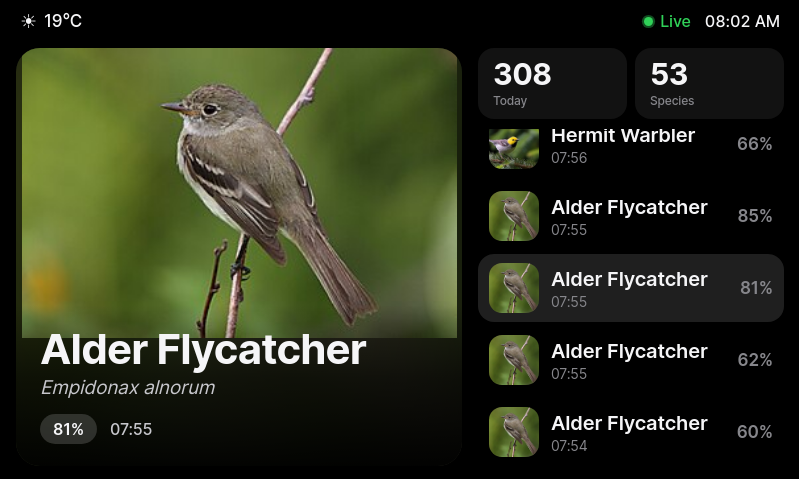
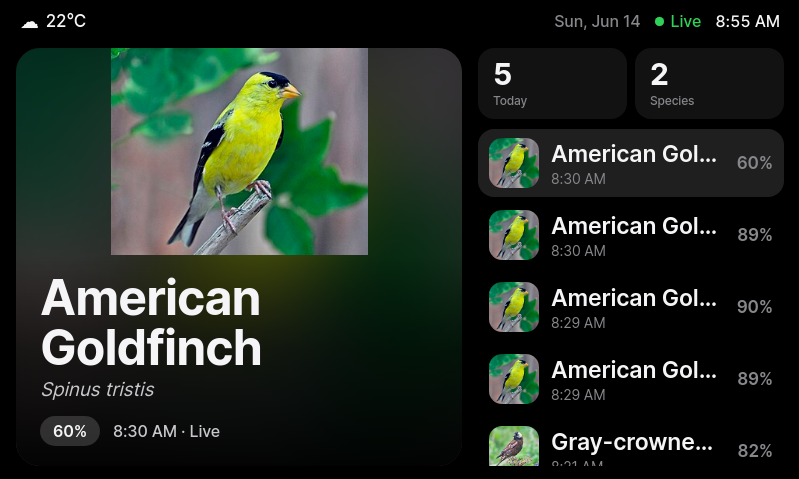
Update UI to current state: 12h clock + date/day, fix name/photo overlap, power menu (long-press m), Pi-driven clock, reboot/poweroff endpoints

diff --git a/dashboard/birdthing-dashboard.html b/dashboard/birdthing-dashboard.html
@@ -36,16 +36,18 @@
     box-shadow:0 0 0 0 rgba(48,209,88,.5);animation:pulse 2s infinite;}
   @keyframes pulse{0%{box-shadow:0 0 0 0 rgba(48,209,88,.45);}70%{box-shadow:0 0 0 11px rgba(48,209,88,0);}100%{box-shadow:0 0 0 0 rgba(48,209,88,0);}}
   #clock{color:var(--fg);font-variant-numeric:tabular-nums;}
+  #date{color:var(--sec);}
   /* HERO */
-  .hero{position:relative;margin:6px 10px 14px 16px;border-radius:24px;overflow:hidden;background:#0c0c0e;}
+  .hero{position:relative;margin:6px 10px 14px 16px;border-radius:24px;overflow:hidden;background:#0c0c0e;
+    display:flex;flex-direction:column;}
   .hero .bg{position:absolute;inset:0;background-size:cover;background-position:center;
     filter:blur(34px) brightness(.4);transform:scale(1.25);}
-  .hero .photo{position:absolute;left:0;right:0;top:0;bottom:128px;background-size:contain;
+  .hero .photo{position:relative;flex:1;min-height:0;background-size:contain;
     background-repeat:no-repeat;background-position:center;transition:opacity .45s ease;}
   .hero .empty{position:absolute;inset:0;display:flex;flex-direction:column;align-items:center;
     justify-content:center;gap:14px;color:var(--sec);}
   .hero .empty .big{font-size:64px;}
-  .hero .meta{position:absolute;left:0;right:0;bottom:0;padding:22px 24px 22px;
+  .hero .meta{position:relative;flex-shrink:0;padding:18px 24px 20px;
     background:linear-gradient(0deg,rgba(0,0,0,.92),rgba(0,0,0,.55) 55%,transparent);}
   .hero .com{font-size:calc(42px*var(--ts));font-weight:700;line-height:1.04;letter-spacing:-.02em;}
   .hero .sci{font-size:19px;font-weight:400;color:#c7c7cc;font-style:italic;margin-top:5px;}
@@ -132,8 +134,9 @@
   #live .rec{display:flex;align-items:center;gap:10px;color:#ff453a;font-size:18px;font-weight:600;}
   #live .recdot{width:14px;height:14px;border-radius:50%;background:#ff453a;animation:pulse2 1.3s infinite;}
   @keyframes pulse2{0%,100%{opacity:1}50%{opacity:.25}}
-  #live .lphoto{width:300px;height:230px;object-fit:contain;border-radius:20px;background:var(--card);}
-  #live .lname{font-size:calc(40px*var(--ts));font-weight:700;letter-spacing:-.02em;}
+  #live .lphoto{width:210px;height:160px;object-fit:contain;border-radius:18px;background:var(--card);}
+  #live .lname{font-size:calc(32px*var(--ts));font-weight:700;letter-spacing:-.02em;line-height:1.05;
+    white-space:normal;text-align:center;padding:0 16px;max-width:96%;}
   #live .lsci{font-size:19px;font-style:italic;color:var(--sec);}
   #live .lconf{font-size:17px;color:var(--sec);margin-top:2px;}
   #live .lwait{font-size:22px;color:var(--sec);}
@@ -151,13 +154,21 @@
   .xax span{flex:1;text-align:center;font-size:11px;color:var(--sec);}
   .about{font-size:17px;color:var(--sec);line-height:1.7;padding:10px 6px;}
   .about b{color:var(--fg);font-weight:600;}
+  /* power menu (long-press m) */
+  .pwr{position:fixed;inset:0;background:rgba(0,0,0,.78);display:none;align-items:center;
+    justify-content:center;z-index:40;backdrop-filter:blur(8px);}
+  .pwr.show{display:flex;}
+  .pwrbox{background:#1c1c1e;border-radius:24px;padding:22px;display:flex;flex-direction:column;gap:11px;width:320px;}
+  .pwrt{font-size:22px;font-weight:700;text-align:center;margin-bottom:4px;}
+  .pwrbtn{font-size:20px;font-weight:600;text-align:center;padding:15px;border-radius:14px;background:var(--card2);}
+  .pwrbtn.alt{color:var(--sec);background:var(--card);}
 </style>
 </head>
 <body>
 <div id="app">
   <div class="top">
     <div class="wx" id="wx" onclick="openWx()"><span id="wxIcon">🌡️</span><span id="wxTemp">--°</span></div>
-    <div class="tr"><div class="live"><div class="dot"></div><span>Live</span></div><div id="clock">--:--</div></div>
+    <div class="tr"><div id="date"></div><div class="live"><div class="dot"></div><span>Live</span></div><div id="clock">--:--</div></div>
   </div>
   <div class="hero" id="hero">
     <div class="bg" id="heroBg"></div>
@@ -206,6 +217,7 @@
   <div class="vhead"><div class="vtitle">Live</div><div class="vclose" onclick="closeView('live')">Back</div></div>
   <div class="lwrap">
     <div class="rec"><div class="recdot"></div><span>Recording &amp; identifying…</span></div>
+    <canvas id="spec" width="720" height="150" style="width:720px;height:150px;border-radius:14px;background:var(--card)"></canvas>
     <img class="lphoto" id="liveImg" alt="">
     <div class="lname" id="liveName">—</div>
     <div class="lsci" id="liveSci"></div>
@@ -229,12 +241,41 @@
     <div class="about" id="about"></div>
   </div>
 </div>
+<div id="power" class="pwr"><div class="pwrbox">
+  <div class="pwrt">Power</div>
+  <div class="pwrbtn" onclick="doReboot()">↻ Restart</div>
+  <div class="pwrbtn" onclick="doPowerOff()">⏻ Power off</div>
+  <div class="pwrbtn alt" onclick="closePower()">Cancel</div>
+</div></div>
 <script>
 const VERSION="1.0 (USB)";
+const CT="http://127.0.0.1:8091";
+// 'm' (5th top button): short press = screen off / wake; long press = power menu.
+let dispOff=false, mTimer=null, mHandled=false;
+function setDisplay(on){dispOff=!on;fetch(CT+"/display?on="+(on?1:0)).catch(()=>{});}
+function powerOpen(){return document.getElementById('power').classList.contains('show');}
+function openPower(){document.getElementById('power').classList.add('show');}
+function closePower(){document.getElementById('power').classList.remove('show');}
+function doReboot(){closePower();fetch(CT+"/reboot").catch(()=>{});}
+function doPowerOff(){closePower();setDisplay(false);}
 const IMG=n=>"/api/image?name="+encodeURIComponent(n);
 let rows=[],sel=0,follow=true,factsOpen=false;
-function tick(){const d=new Date();document.getElementById('clock').textContent=d.toLocaleTimeString([],{hour:'2-digit',minute:'2-digit'});}
+// Clock/date come from the Pi (authoritative NTP time): the Car Thing has no RTC/NTP
+// and a wrong system clock + timezone, so we never trust the browser's local Date.
+const DAYS=['Sun','Mon','Tue','Wed','Thu','Fri','Sat'];
+const MON=['Jan','Feb','Mar','Apr','May','Jun','Jul','Aug','Sep','Oct','Nov','Dec'];
+let srvOffMs=null;            // server-UTC minus local Date.now()
+let tzOffMin=-(new Date().getTimezoneOffset()); // until first server sync
+function setSrvTime(nowMs,tzoff){srvOffMs=nowMs-Date.now();if(typeof tzoff==='number')tzOffMin=tzoff;}
+function tick(){
+  const base=(srvOffMs!=null?Date.now()+srvOffMs:Date.now())+tzOffMin*60000;
+  const d=new Date(base); // shifted so UTC getters read Pi-local wall clock
+  let h=d.getUTCHours();const ap=h<12?'AM':'PM';const hh=(h%12)||12;
+  document.getElementById('clock').textContent=hh+':'+String(d.getUTCMinutes()).padStart(2,'0')+' '+ap;
+  document.getElementById('date').textContent=DAYS[d.getUTCDay()]+', '+MON[d.getUTCMonth()]+' '+d.getUTCDate();}
 setInterval(tick,1000);tick();
+// detection timestamps -> 12-hour to match the top clock
+function fmt12(t){if(!t)return'';const p=t.split(':'),m=p[1]||'00';let h=+p[0];const ap=h<12?'AM':'PM';h=h%12;if(h===0)h=12;return h+':'+m+' '+ap;}
 function renderHero(){
   const m=document.getElementById('heroMeta'),e=document.getElementById('heroEmpty');
   if(!rows.length){m.style.display='none';e.style.display='flex';return;}
@@ -243,7 +284,7 @@ function renderHero(){
   document.getElementById('heroCom').textContent=b.com;
   document.getElementById('heroSci').textContent=b.sci||'';
   document.getElementById('heroConf').textContent=Math.round(b.conf*100)+'%';
-  document.getElementById('heroWhen').textContent=b.time.slice(0,5)+(follow&&sel===0?' · Live':'');
+  document.getElementById('heroWhen').textContent=fmt12(b.time)+(follow&&sel===0?' · Live':'');
   const url=IMG(b.com);
   document.getElementById('heroPhoto').style.backgroundImage=`url('${url}')`;
   document.getElementById('heroBg').style.backgroundImage=`url('${url}')`;
@@ -253,7 +294,7 @@ function renderList(){
   rows.forEach((x,i)=>{
     const it=document.createElement('div');it.className='item'+(i===sel?' sel':'');
     it.innerHTML=`<img class="th" src="${IMG(x.com)}" onerror="this.style.visibility='hidden'">
-      <div class="info"><div class="nm">${x.com}</div><div class="tm">${x.time.slice(0,5)}</div></div>
+      <div class="info"><div class="nm">${x.com}</div><div class="tm">${fmt12(x.time)}</div></div>
       <div class="cf">${Math.round(x.conf*100)}%</div>`;
     it.onclick=()=>{sel=i;follow=(i===0);renderHero();renderList();openFacts();};
     L.appendChild(it);
@@ -263,9 +304,13 @@ function renderList(){
 async function refresh(){
   try{
     const d=await (await fetch('/api/detections',{cache:'no-store'})).json();
+    if(d.now)setSrvTime(d.now,d.tzoff);
     document.getElementById('stCount').textContent=d.today_count||0;
     document.getElementById('stSpecies').textContent=d.today_species||0;
-    rows=d.rows||[];
+    const nr=d.rows||[];
+    const nk=nr.length?nr[0].time+nr[0].com:'';
+    if(nk&&nk!==lastLiveKey){lastLiveKey=nk;specEnergy=1;}   // fresh ID -> pulse spectrogram
+    rows=nr;
     if(follow)sel=0;
     if(document.getElementById('live').classList.contains('show'))renderLive();
     if(!curOverlay()){renderHero();renderList();}
@@ -296,14 +341,22 @@ function closeFacts(){factsOpen=false;document.getElementById('facts').classList
 document.getElementById('facts').onclick=(e)=>{if(e.target.id==='facts')closeFacts();};
 function factsScroll(d){document.getElementById('fBody').scrollBy({top:d*90,behavior:'smooth'});}
 function btnNav(k){ // top buttons 1-4 switch views from anywhere
-  if(k==='1'){closeAllOverlays();openFacts();return true;}
-  if(k==='2'){openGallery();return true;}
-  if(k==='3'){openLive();return true;}
-  if(k==='4'){openSettings();return true;}
+  const cur=curOverlay();
+  if(k==='1'){cur?closeAllOverlays():openFacts();return true;}
+  if(k==='2'){cur==='gallery'?closeAllOverlays():openGallery();return true;}
+  if(k==='3'){cur==='live'?closeAllOverlays():openLive();return true;}
+  if(k==='4'){cur==='settings'?closeAllOverlays():openSettings();return true;}
   return false;
 }
 document.addEventListener('keydown',(ev)=>{
   const k=ev.key;
+  if(powerOpen()){if(k==='Escape'||k==='Backspace')closePower();return;}
+  if(k==='m'||k==='M'){
+    if(ev.repeat)return;
+    if(dispOff){setDisplay(true);mHandled=true;return;}   // wake
+    mHandled=false;clearTimeout(mTimer);mTimer=setTimeout(()=>{mHandled=true;openPower();},650);
+    return;
+  }
   if(document.getElementById('wxset').classList.contains('show')){if(k==='Escape'||k==='Backspace')closeWx();return;}
   if(btnNav(k))return;
   if(factsOpen){
@@ -324,6 +377,12 @@ document.addEventListener('keydown',(ev)=>{
   else if(k==='ArrowUp'||k==='ArrowLeft')move(-1);
   else if(k==='Enter')openFacts();
   else if(k==='Escape'||k==='Backspace')goLive();
+});
+document.addEventListener('keyup',(ev)=>{
+  if(ev.key!=='m'&&ev.key!=='M')return;
+  clearTimeout(mTimer);
+  if(mHandled){mHandled=false;return;}
+  setDisplay(false);   // short press = screen off
 });
 // ---- Views (gallery / live / settings) ----
 function closeAllOverlays(){closeFacts();['gallery','live','settings'].forEach(id=>document.getElementById(id).classList.remove('show'));}
@@ -350,7 +409,23 @@ async function openGallery(){openView('gallery');
     if(!days.length)b.innerHTML='<div class="about">No birds yet today.</div>';
   }catch(e){b.innerHTML='<div class="about">Could not load.</div>';}
 }
-function openLive(){openView('live');renderLive();}
+let specEnergy=0, specRAF=0, lastLiveKey='';
+function specLoop(){
+  const cv=document.getElementById('spec'); if(!cv){specRAF=0;return;}
+  if(!document.getElementById('live').classList.contains('show')){specRAF=0;return;}
+  const x=cv.getContext('2d'),W=cv.width,H=cv.height;
+  const img=x.getImageData(2,0,W-2,H); x.clearRect(0,0,W,H); x.putImageData(img,0,0);
+  specEnergy*=0.97;                          // decays; bumps on a fresh detection
+  const base=0.34+specEnergy*1.4, n=10, cx=W-2;
+  for(let i=0;i<n;i++){
+    const amp=(Math.sin(Date.now()/170+i*1.3)*0.4+0.6)*base*(0.5+Math.random()*0.5);
+    const h=Math.min(H, amp*H), y=(H-h)/2;
+    x.fillStyle='rgba(48,209,88,'+(0.4+amp*0.6).toFixed(2)+')';
+    x.fillRect(cx, y+i*(h/n*0), Math.random()*2+1, h);
+  }
+  specRAF=requestAnimationFrame(specLoop);
+}
+function openLive(){openView('live');renderLive();specEnergy=0.9;if(!specRAF)specLoop();}
 function renderLive(){
   if(!rows.length){document.getElementById('liveName').textContent='Listening…';
     document.getElementById('liveSci').textContent='';document.getElementById('liveConf').textContent='';
@@ -358,7 +433,7 @@ function renderLive(){
   const b=rows[0];
   document.getElementById('liveName').textContent=b.com;
   document.getElementById('liveSci').textContent=b.sci||'';
-  document.getElementById('liveConf').textContent='confidence '+Math.round(b.conf*100)+'% · '+b.time.slice(0,5);
+  document.getElementById('liveConf').textContent='confidence '+Math.round(b.conf*100)+'% · '+fmt12(b.time);
   const img=document.getElementById('liveImg');img.style.visibility='visible';img.src=IMG(b.com);
 }
 async function openSettings(){openView('settings');markSettings();renderStats();

diff --git a/pi/birdthing_api.py b/pi/birdthing_api.py
@@ -1,7 +1,7 @@
 #!/usr/bin/env python3
 # BirdThing dashboard API: serves recent BirdNET detections + bird photos for the
 # Car Thing 800x480 screen. Reads BirdNET-Pi's SQLite DB; proxies/caches Wikipedia photos.
-import sqlite3, os, json, urllib.request, urllib.parse, threading
+import sqlite3, os, json, urllib.request, urllib.parse, threading, time
 from http.server import BaseHTTPRequestHandler, ThreadingHTTPServer
 
 DB = "/home/birdpi/BirdNET-Pi/scripts/birds.db"
@@ -74,6 +74,14 @@ def geocode(q):
     except Exception:
         return []
 
+def tz_off_min():
+    # Pi local UTC offset in minutes east of UTC (e.g. EDT = -240). The Car Thing
+    # has no RTC/NTP and a wrong clock+TZ, so the dashboard renders time from this.
+    is_dst = time.localtime().tm_isdst > 0
+    secs_west = time.altzone if is_dst else time.timezone
+    return -secs_west // 60
+
+
 def detections(limit=60):
     try:
         con = sqlite3.connect("file:%s?mode=ro" % DB, uri=True, timeout=5)
@@ -86,9 +94,11 @@ def detections(limit=60):
             "SELECT COUNT(*) , COUNT(DISTINCT Com_Name) FROM detections WHERE Date=?",
             (rows[0]["date"],)).fetchone() if rows else (0, 0)
         con.close()
-        return {"rows": rows, "today_count": today[0], "today_species": today[1]}
+        return {"rows": rows, "today_count": today[0], "today_species": today[1],
+                "now": int(time.time() * 1000), "tzoff": tz_off_min()}
     except Exception as e:
-        return {"rows": [], "today_count": 0, "today_species": 0, "err": str(e)}
+        return {"rows": [], "today_count": 0, "today_species": 0, "err": str(e),
+                "now": int(time.time() * 1000), "tzoff": tz_off_min()}
 
 def by_date(days=7):
     try:

diff --git a/carthing/birdknob_ct.py b/carthing/birdknob_ct.py
@@ -30,6 +30,10 @@ def control_server():
                 else:
                     try: os.remove("/tmp/display_off")
                     except OSError: pass
+            elif self.path.startswith("/reboot"):
+                os.system("sudo systemctl reboot")
+            elif self.path.startswith("/poweroff"):
+                os.system("sudo systemctl poweroff")
             self.send_response(200); self.send_header("Access-Control-Allow-Origin", "*")
             self.end_headers(); self.wfile.write(b"ok")
     try:
@@ -47,11 +51,9 @@ def button_watch():
                     if not d or len(d) < EVENT_SIZE:
                         continue
                     _, _, etype, code, value = struct.unpack(EVENT_FORMAT, d)
-                    if etype == 1 and code == BTN_M and value == 1:   # EV_KEY keydown
-                        if os.path.exists(DISPLAY_FLAG):
-                            os.remove(DISPLAY_FLAG)
-                        else:
-                            open(DISPLAY_FLAG, "w").close()
+                    # 'm' is now owned by the dashboard JS (short=screen off/wake,
+                    # long=power menu via the /display, /reboot, /poweroff endpoints).
+                    _ = (etype, code, value)
         except Exception:
             time.sleep(2)
 